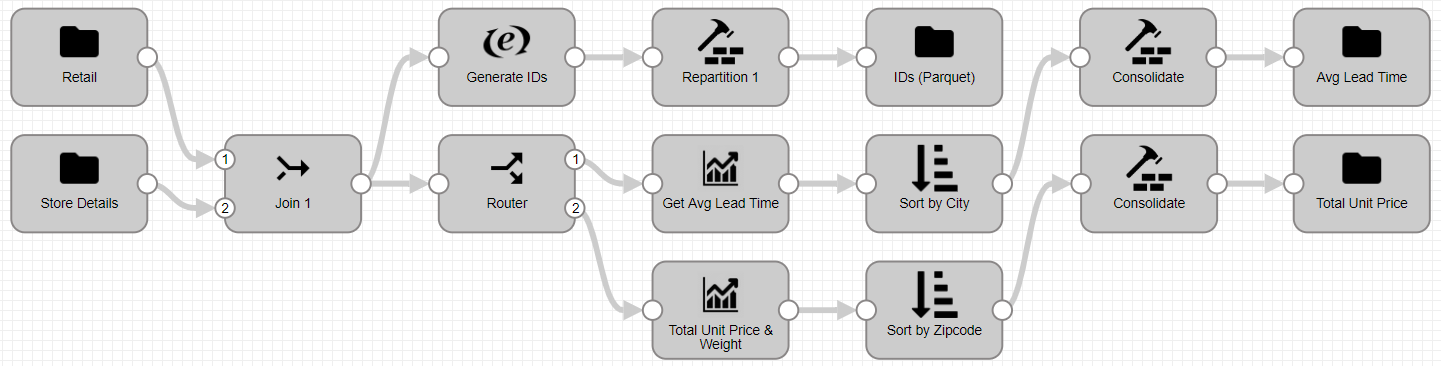
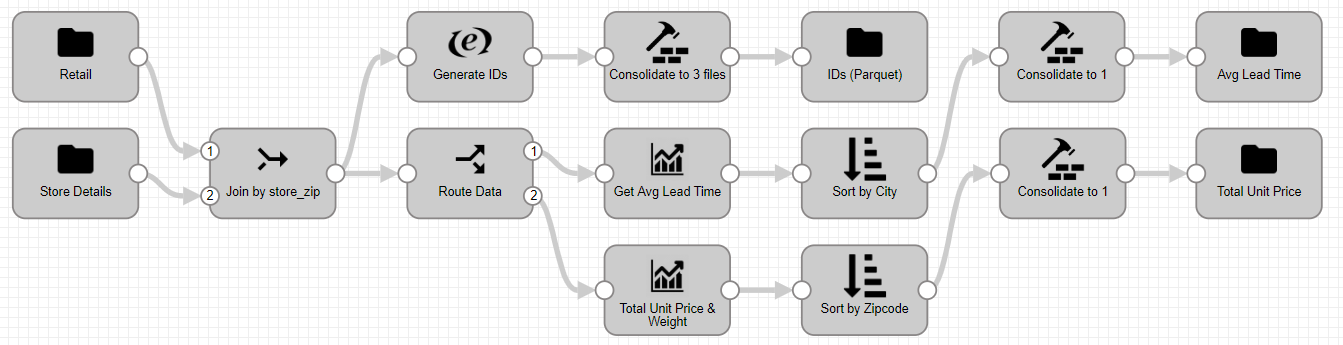
Added Tx Retail Inventory

diff --git a/transformer/sample-pipelines/pipelines/Tx Retail Inventory - Join Agg Repartition/README.md b/transformer/sample-pipelines/pipelines/Tx Retail Inventory - Join Agg Repartition/README.md
@@ -31,9 +31,13 @@ NOTE: [Templates](https://streamsets.com/documentation/controlhub/latest/help/co
 Stage | Description
 --- | ---
 [Retail and Store Details](https://streamsets.com/documentation/transformer/latest/help/transformer/Origins/File.html?contextID=concept_jcx_f2d_qgb) | Reads the source data from files on the local file system
-[Slowly Changing Dimension](https://streamsets.com/documentation/transformer/latest/help/transformer/Processors/SCDimension.html?contextID=concept_ixk_bbr_j3b) | Generates updates to a Type 1 or Type 2 slowly changing dimension by evaluating change data against master dimension data
-[Consolidate to 1 file](https://streamsets.com/documentation/transformer/latest/help/transformer/Processors/Repartition.html?contextID=concept_cm5_lfg_wgb) | Repartition - change the number of partitions that are written to file systems to 1
-[Master](https://streamsets.com/documentation/transformer/latest/help/transformer/Destinations/File-D.html?contextID=concept_akw_2r3_xgb) | Writes data to a local file system
+[Join by store_zip](https://streamsets.com/documentation/transformer/latest/help/transformer/Processors/Join.html?contextID=concept_xdr_slq_sgb) | Joins the data sources by store_zip
+[Generate IDs](https://streamsets.com/documentation/transformer/latest/help/transformer/Processors/SparkSQLExp.html?contextID=concept_akj_gsz_mhb) | Uses SparkSQL to generate an ID
+[Route Data](https://streamsets.com/documentation/transformer/latest/help/transformer/Processors/StreamSelector.html?contextID=concept_wv3_k4j_zgb) | Routes data based on lead time
+[Consolidate to 3/1](https://streamsets.com/documentation/transformer/latest/help/transformer/Processors/Repartition.html?contextID=concept_cm5_lfg_wgb) | Repartition - change the number of partitions that are written to file systems to 1
+[Get Avg Lead Time/Total Unit Price & Weight](https://streamsets.com/documentation/transformer/latest/help/transformer/Processors/Aggregate.html?contextID=concept_eby_fb4_wgb) | Aggregator to perform AVG and SUMs
+[Sort by City/Sort by Zipcode](https://streamsets.com/documentation/transformer/latest/help/transformer/Processors/Sort.html?contextID=concept_jw2_pq5_rgb) | Sorts the data
+[IDs/Avg Lead Time/Total Unit Price](https://streamsets.com/documentation/transformer/latest/help/transformer/Destinations/File-D.html?contextID=concept_akw_2r3_xgb) | Writes data to a local file system
 
 ## PREREQUISITES
 
